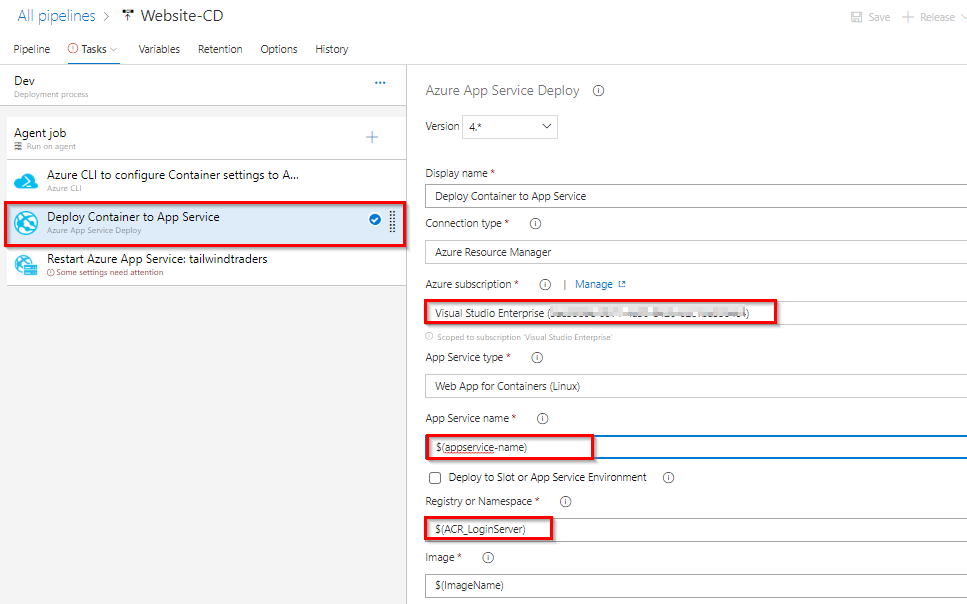
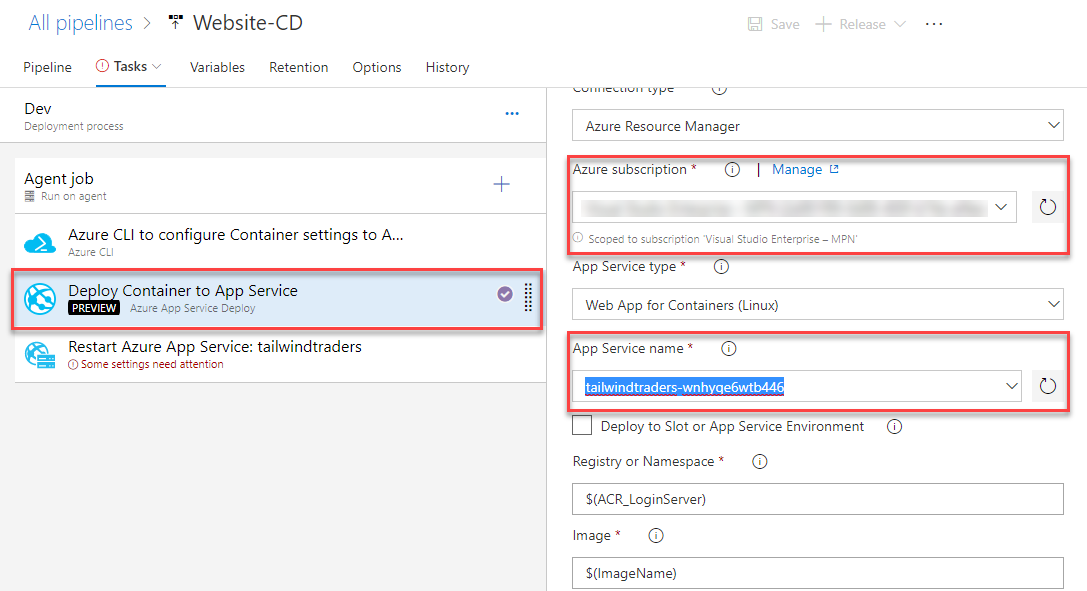
updated content and screenshot

diff --git a/Integrating GitHub with Azure Pipelines/README.md b/Integrating GitHub with Azure Pipelines/README.md
@@ -118,12 +118,15 @@ This task is used to create or update a resource group in Azure using the [Azure
 
    ![](images/azure-resources.png)
 
-   And you should be able to see repository with name **website** in your Container registry.
+   And you will see a repository with the name **website** in your Container registry under **Repositories**.
   
    ![](images/acr-repository.png)
 
 
-## Configure Build(CD) pipeline for Website
+## Configure Release(CD) pipeline
+
+By using a combination of manual deployment approvals, gates, and manual intervention within a release pipeline in Azure Pipelines, you can quickly and easily configure a release pipeline with all the control and auditing capabilities you require for your DevOps CI/CD processes. **Release Gates** allow you to configure automated calls to external services, where the results are used to approve or reject a deployment. You can use gates to ensure that the release meets a wide range or criteria, without requiring user intervention.
+In addition, you can install an extension that integrates with **ServiceNow** to help you control and manage your deployments though service management methodologies such as ITIL. 
 
 1. Navigate to **Pipeline » Releases**. Select **Website-CD** and click **Edit** pipeline.
    
@@ -137,7 +140,7 @@ This task is used to create or update a resource group in Azure using the [Azure
 
     ![](images/release-tasks.png)
 
-1. Select **Variables**. You need to enter your ACR and App service (which are provisioned in build pipeline) details here. We will make use of these variable values in our pipeline tasks.
+1. Select **Variables**. You need to enter your ACR and App service (which were provisioned during the build) details here. We will make use of these variable values in our pipeline tasks.
    
     ![](images/variables-release.png)
 
@@ -152,25 +155,24 @@ This task is used to create or update a resource group in Azure using the [Azure
 
    Enter the above values for the appropriate variables.
 
-1. Select  **Azure CLI** task. Here we are using Azure CLI script to set the container settings for the Azure app service we created. Select the **Azure service connection** from the drop down. 
+1. Come back to **Tasks** and select **Azure CLI to configure Container settings to App service** task. Here we are using Azure CLI script to set the container settings for the Azure app service we created. Select the **Azure service connection** from the drop down. 
  
     ![](images/azurecli-task.png)
 
-1. Select **App Service** task. Make sure you have selected **Azure service connection** and **App service name**.
+1. Select **Deploy Container to App Service** task. Make sure you have selected **Azure subscription** and choose **App service name** value from the drop down.
      
      ![](images/appservice-task.png)
 
-1. Select **[Azure App Service manage](https://github.com/Microsoft/azure-pipelines-tasks/blob/master/Tasks/AzureAppServiceManageV0/README.md)** task. Select the required parameters as shown below. We are using this task here to restart the app service.
+1. Select **Restart Azure App Service: tailwindtraders** task. Select the required parameters as shown below. We are using this task here to restart the app service.
  
    ![](images/restart-appservice.png)
 
-1. **Save** the changes and queue the release.
+1. **Save** the changes and click **+ Release -> Create a release**.
 
     ![](images/release-progress.gif)
 
-1. Once the release is success navigate to your Azure portal. Select the app service that we created and browse to view the application deployed.
+1. Once the release succeeds, navigate to your Azure portal. Select the app service that was created previously and browse to view the deployed application.
 
    ![](images/browse-appservice.png)
 
    ![](images/website-view.png)
-
